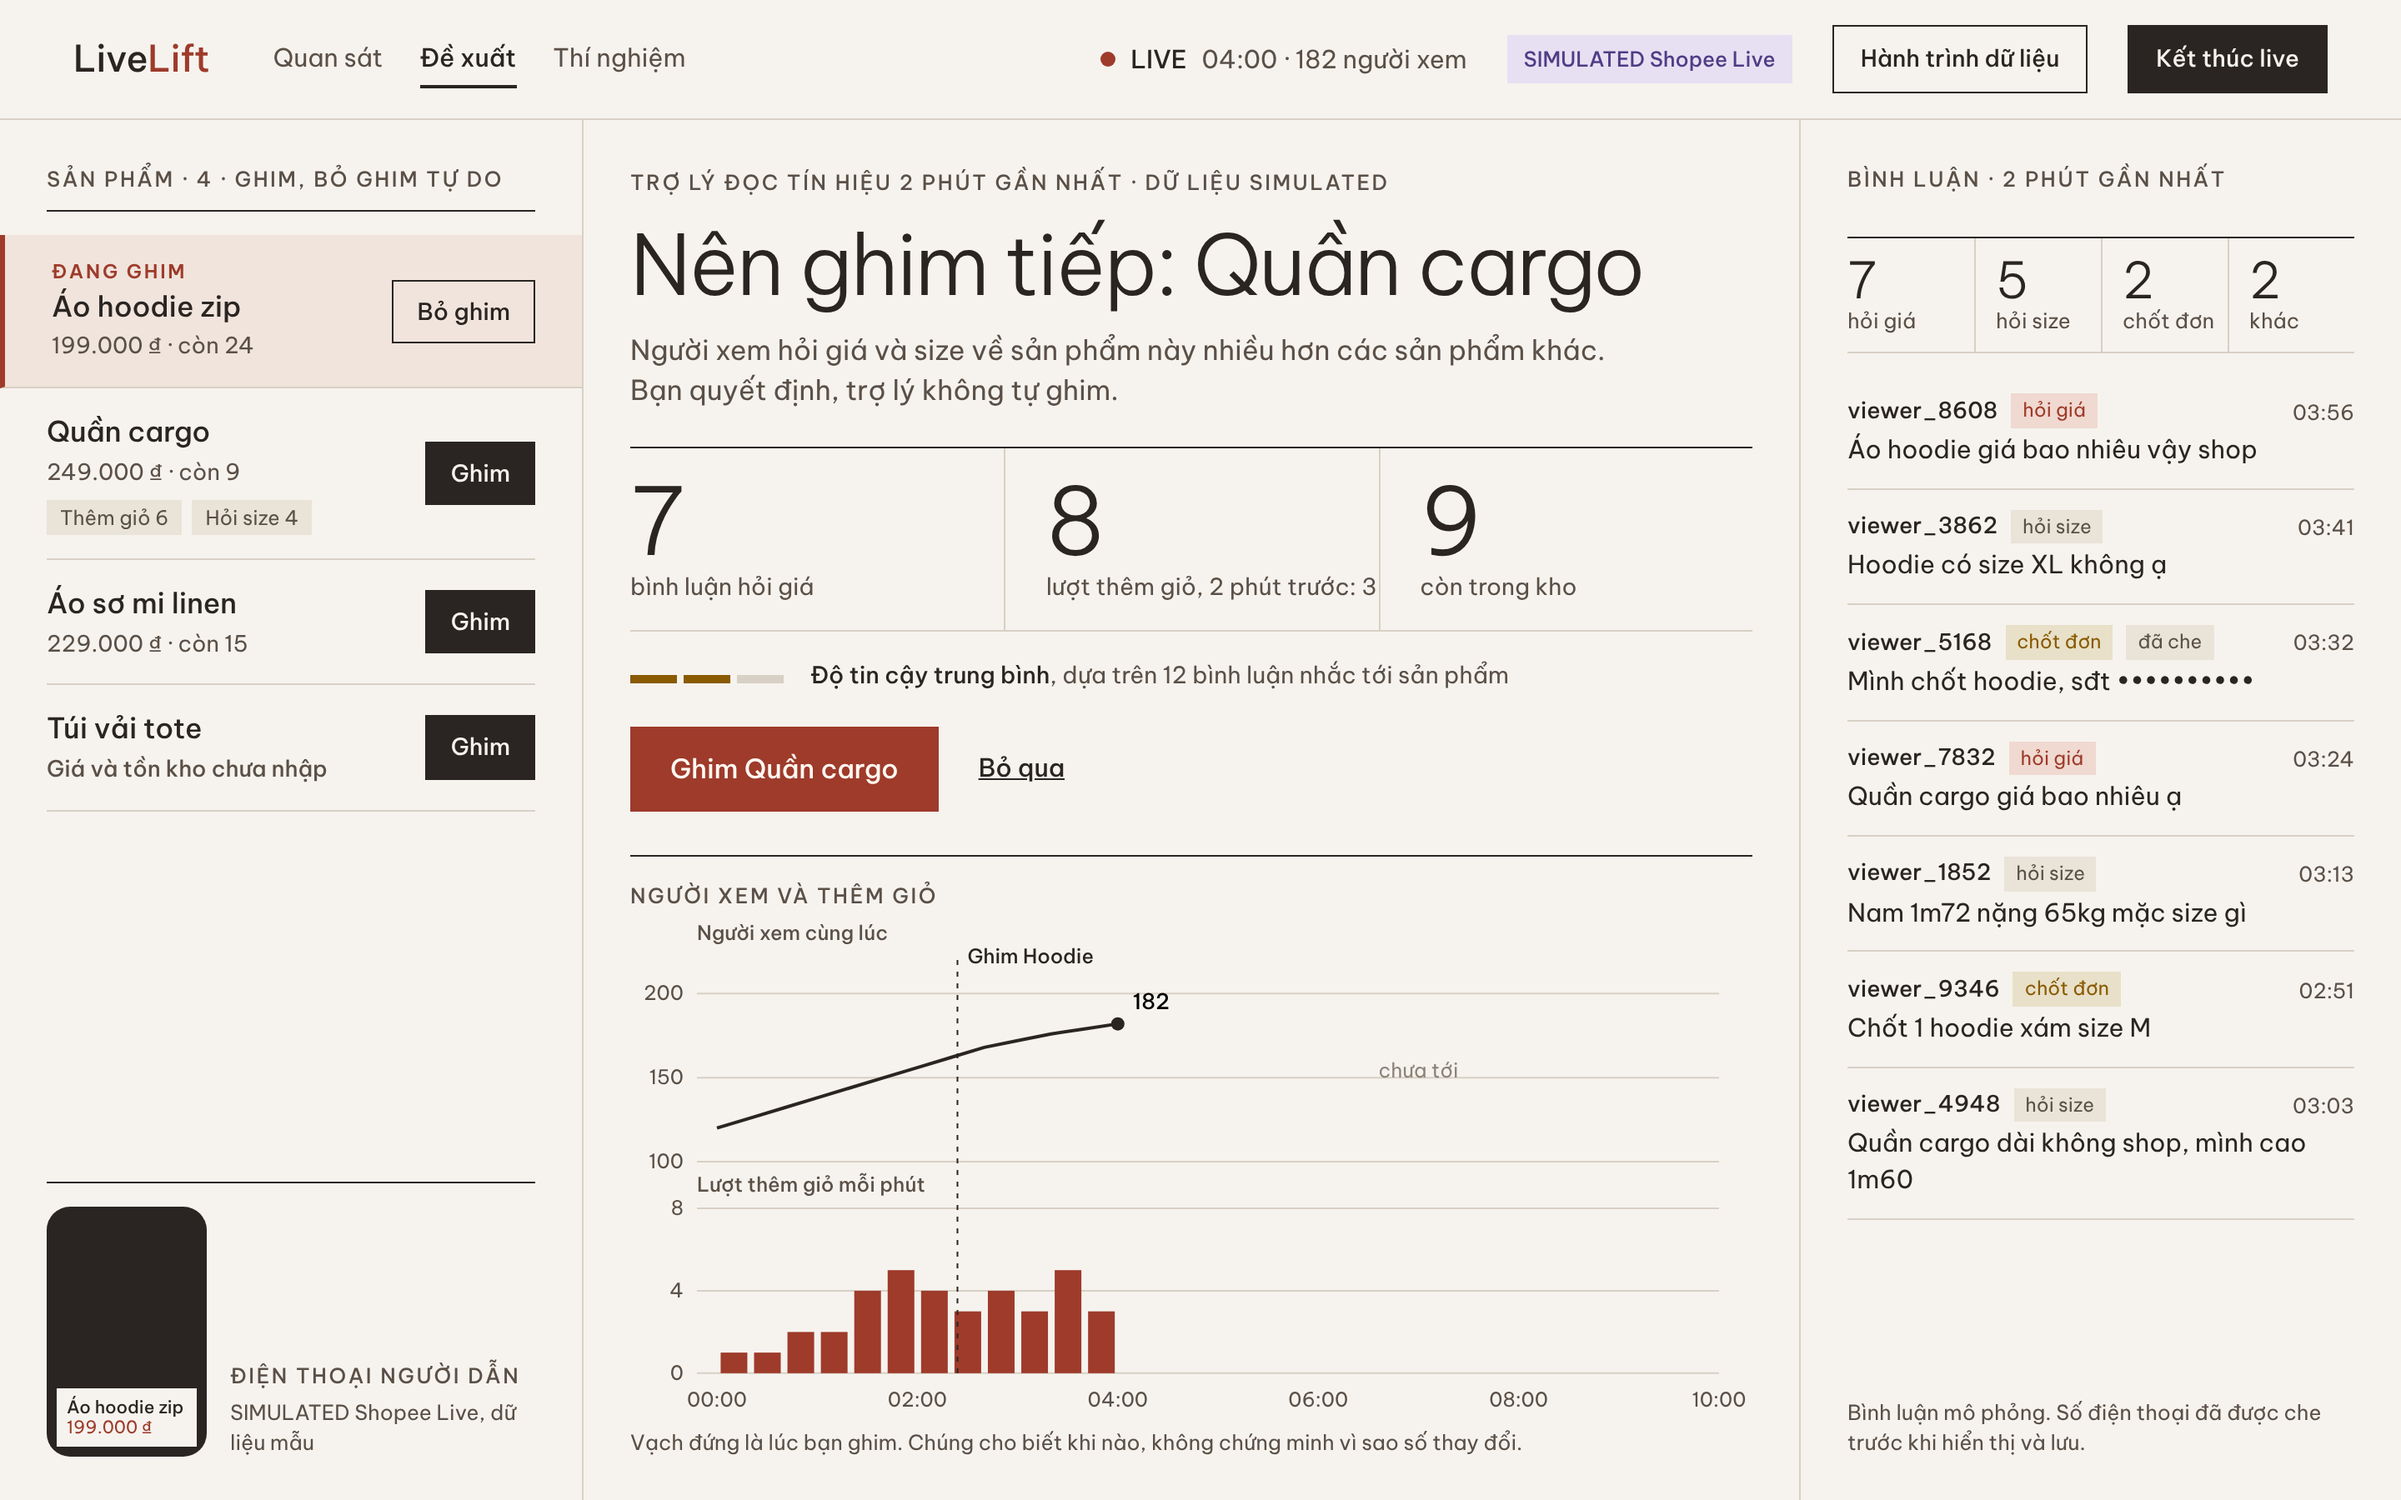
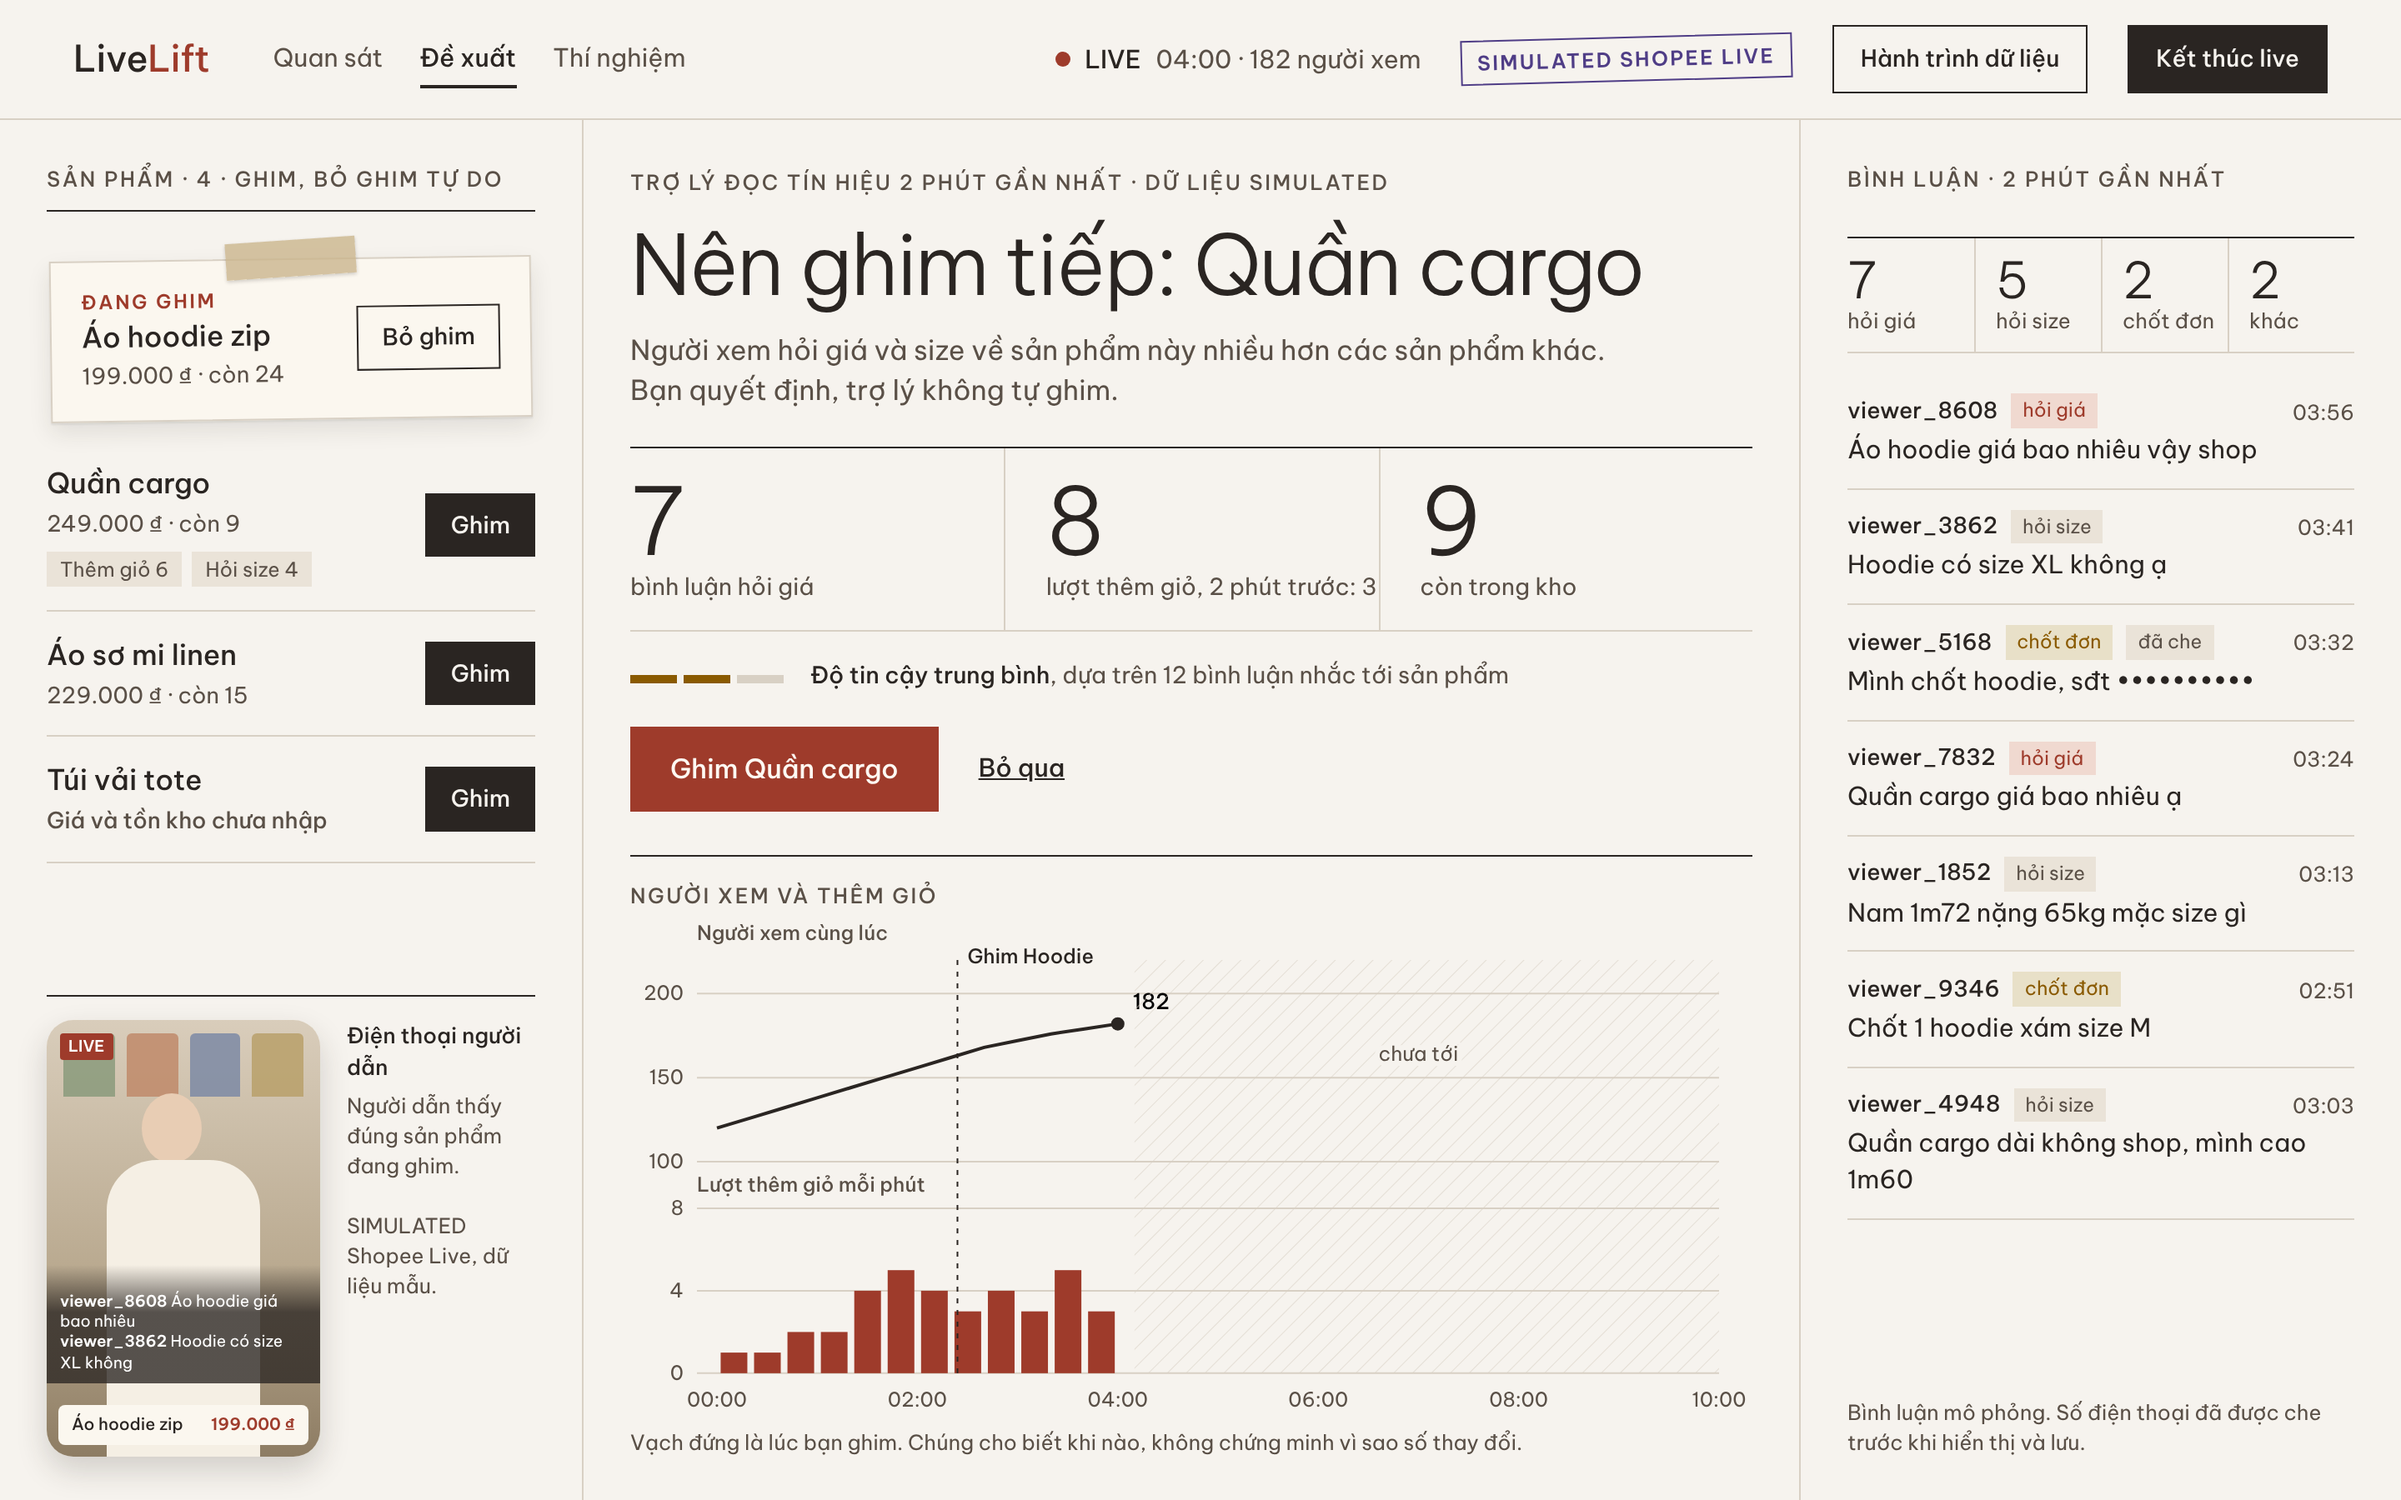
docs(competition): Calm Studio with tape pin, chosen direction
Claude-Session: https://claude.ai/code/session_01T5jHqYtofkC61PJ5z9MqDx

diff --git a/docs/competition/mockup-vibe/calm-desk.html b/docs/competition/mockup-vibe/calm-desk.html
@@ -12,7 +12,7 @@ header{height:72px;display:flex;align-items:center;gap:24px;padding:0 44px;borde
 .logo{font-size:22px;font-weight:500;letter-spacing:-.01em}.logo b{font-weight:500;color:var(--rust)}
 .modes{display:flex;gap:22px;margin-left:14px}.modes span{color:var(--soft);padding:6px 0;border-bottom:2px solid transparent}.modes span.on{color:var(--ink);border-color:var(--ink);font-weight:500}
 .sp{flex:1}.live{display:flex;gap:9px;align-items:center;font-weight:500}.live i{width:9px;height:9px;border-radius:50%;background:var(--rust)}.live span{color:var(--soft);font-weight:400}
-.stamp{font-size:12.5px;font-weight:500;color:var(--sim);background:var(--simbg);padding:5px 10px}
+.stamp{font-size:12px;font-weight:600;letter-spacing:.1em;text-transform:uppercase;color:var(--sim);border:1.5px solid var(--sim);padding:4px 9px;transform:rotate(-1.5deg)}
 .ctl{border:1px solid var(--ink);padding:9px 16px;font-weight:500;font-size:14px}.ctl.solid{background:var(--ink);color:var(--bg)}
 main{display:grid;grid-template-columns:350px 1fr 360px;gap:0;height:calc(900px - 72px)}
 .col{padding:26px 28px;display:flex;flex-direction:column;gap:26px;min-height:0;border-right:1px solid var(--rule)}.col:last-child{border-right:0}
@@ -20,7 +20,9 @@ main{display:grid;grid-template-columns:350px 1fr 360px;gap:0;height:calc(900px 
 .sect{border-top:1px solid var(--ink);padding-top:14px}
 .prod{display:flex;gap:12px;align-items:center;padding:14px 0;border-bottom:1px solid var(--rule)}
 .prod b{font-weight:500;font-size:17px;display:block}.prod small{color:var(--soft);font-size:13.5px}
-.prod.on{background:#F0E4DC;margin:0 -28px;padding:14px 28px;border-left:3px solid var(--rust)}
+.prod.on{position:relative;background:#FBF7EF;margin:14px 2px 12px;padding:16px 18px;border:1px solid var(--rule);box-shadow:0 1px 1px rgba(42,37,34,.08),0 6px 14px rgba(42,37,34,.10);transform:rotate(-.8deg)}
+.prod.on::before{content:"";position:absolute;top:-12px;left:50%;width:78px;height:22px;transform:translateX(-50%) rotate(-3deg);background:rgba(201,180,138,.78);box-shadow:0 1px 2px rgba(42,37,34,.2)}
+.prod.on .tag{color:var(--rust)}
 .tag{font-size:11.5px;letter-spacing:.12em;color:var(--rust);font-weight:600;display:block}
 .chips{display:flex;gap:6px;margin-top:6px}.chip{font-size:12px;background:var(--chip);color:var(--soft);padding:2px 8px}
 .btn{border:1px solid var(--ink);padding:8px 14px;font-weight:500;font-size:14px;white-space:nowrap}.btn.fill{background:var(--ink);color:var(--bg)}
@@ -38,12 +40,18 @@ main{display:grid;grid-template-columns:350px 1fr 360px;gap:0;height:calc(900px 
 .cm{padding:12px 0;border-bottom:1px solid var(--rule)}.who{display:flex;gap:8px;align-items:center;font-size:12.5px;color:var(--soft)}.who b{color:var(--ink);font-weight:500;font-size:13.5px}
 .t{font-size:11.5px;background:var(--chip);color:var(--soft);padding:2px 7px}.t.p{background:#F0D9D0;color:var(--rust)}.t.m{background:#E8E0C8;color:var(--amber)}
 .cm p{margin-top:2px;font-size:15px}
-.phone{display:flex;gap:14px;align-items:flex-end;border-top:1px solid var(--ink);padding-top:14px}
-.screen{width:96px;height:150px;background:#2A2522;border-radius:14px;position:relative;flex:none}
-.screen .card{position:absolute;left:6px;right:6px;bottom:6px;background:var(--bg);padding:5px 6px;font-size:10.5px;line-height:1.2}
+.phone{border-top:1px solid var(--ink);padding-top:14px;display:flex;gap:16px;align-items:flex-start;margin-top:auto}
+.screen{width:164px;height:262px;border-radius:16px;position:relative;flex:none;overflow:hidden;background:linear-gradient(180deg,#d9cdbb 0%,#b9a98f 58%,#8d7c63 100%);box-shadow:0 8px 18px rgba(42,37,34,.18)}
+.screen .rack{position:absolute;left:0;right:0;top:0;height:46px;display:flex;gap:7px;padding:8px 10px 0}.screen .rack i{flex:1;border-radius:3px 3px 0 0;opacity:.85}
+.screen .head{position:absolute;left:57px;top:44px;width:36px;height:42px;border-radius:50%;background:#e8cdb4}
+.screen .body{position:absolute;left:36px;right:36px;top:84px;bottom:0;border-radius:30px 30px 0 0;background:#f5efe4}
+.screen .live{position:absolute;top:8px;left:8px;font-size:9.5px;background:var(--rust);color:#fff;padding:1px 5px;border-radius:2px;font-weight:600;gap:0}
+.screen .chat{position:absolute;left:0;right:0;bottom:44px;padding:16px 8px 6px;font-size:9.5px;line-height:1.3;color:#fff;background:linear-gradient(180deg,rgba(42,37,34,0),rgba(42,37,34,.78) 40%)}
+.screen .pc{position:absolute;left:7px;right:7px;bottom:7px;background:#FBF7EF;border-radius:4px;padding:6px 8px;font-size:10px;line-height:1.2;display:flex;justify-content:space-between;align-items:center;gap:4px;white-space:nowrap}
+.pcap{font-size:12.5px;color:var(--soft)}.pcap b{display:block;font-weight:500;color:var(--ink);margin-bottom:4px;font-size:13px}
 </style></head><body>
 <header><div class="logo">Live<b>Lift</b></div><div class="modes"><span>Quan sát</span><span class="on">Đề xuất</span><span>Thí nghiệm</span></div><div class="sp"></div>
-<div class="live"><i></i>LIVE <span class="num">04:00 · 182 người xem</span></div><span class="stamp">SIMULATED Shopee Live</span><span class="ctl">Hành trình dữ liệu</span><span class="ctl solid">Kết thúc live</span></header>
+<div class="live"><i></i>LIVE <span class="num">04:00 · 182 người xem</span></div><span class="stamp">Simulated Shopee Live</span><span class="ctl">Hành trình dữ liệu</span><span class="ctl solid">Kết thúc live</span></header>
 <main>
 <div class="col"><div><div class="label" style="margin-bottom:10px">Sản phẩm · 4 · ghim, bỏ ghim tự do</div>
  <div class="sect"></div>
@@ -51,7 +59,7 @@ main{display:grid;grid-template-columns:350px 1fr 360px;gap:0;height:calc(900px 
  <div class="prod"><div style="flex:1"><b>Quần cargo</b><small class="num">249.000 ₫ · còn 9</small><div class="chips"><span class="chip">Thêm giỏ 6</span><span class="chip">Hỏi size 4</span></div></div><span class="btn fill">Ghim</span></div>
  <div class="prod"><div style="flex:1"><b>Áo sơ mi linen</b><small class="num">229.000 ₫ · còn 15</small></div><span class="btn fill">Ghim</span></div>
  <div class="prod"><div style="flex:1"><b>Túi vải tote</b><small class="miss">Giá và tồn kho chưa nhập</small></div><span class="btn fill">Ghim</span></div></div>
- <div class="phone" style="margin-top:auto"><div class="screen"><div class="card"><b style="font-weight:500">Áo hoodie zip</b><br><span style="color:#9E3B2B">199.000 ₫</span></div></div><div style="font-size:12.5px;color:var(--soft)"><div class="label" style="margin-bottom:4px">Điện thoại người dẫn</div>SIMULATED Shopee Live, dữ liệu mẫu</div></div></div>
+ <div class="phone"><div class="screen"><div class="rack"><i style="background:#8a9a7b"></i><i style="background:#c08a6a"></i><i style="background:#7d8aa5"></i><i style="background:#b8a06a"></i></div><div class="head"></div><div class="body"></div><span class="live">LIVE</span><div class="chat"><b>viewer_8608</b> Áo hoodie giá bao nhiêu<br><b>viewer_3862</b> Hoodie có size XL không</div><div class="pc"><b style="font-weight:500">Áo hoodie zip</b><span style="color:#9E3B2B;font-weight:600">199.000 ₫</span></div></div><div class="pcap"><b>Điện thoại người dẫn</b>Người dẫn thấy đúng sản phẩm đang ghim.<br><br>SIMULATED Shopee Live, dữ liệu mẫu.</div></div></div>
 <div class="col" style="flex:1"><div class="slip"><span class="label">Trợ lý đọc tín hiệu 2 phút gần nhất · dữ liệu SIMULATED</span>
  <h1>Nên ghim tiếp: Quần cargo</h1><p class="lead">Người xem hỏi giá và size về sản phẩm này nhiều hơn các sản phẩm khác. Bạn quyết định, trợ lý không tự ghim.</p>
  <div class="why"><div><b class="num">7</b><span>bình luận hỏi giá</span></div><div><b class="num">8</b><span>lượt thêm giỏ, 2 phút trước: 3</span></div><div><b class="num">9</b><span>còn trong kho</span></div></div>
@@ -81,9 +89,9 @@ window.addEventListener('load',()=>{
  s+=`<path d="M${v.map((d,i)=>x(i/3)+','+y1(d)).join(' L')}" fill="none" stroke="#2A2522" stroke-width="2"/>`;
  [0,4,8].forEach(d=>{s+=`<line x1="${P.l}" x2="${W-P.r}" y1="${y2(d)}" y2="${y2(d)}" stroke="#D8D0C4"/><text x="${P.l-8}" y="${y2(d)+4}" font-size="12" fill="#5A5047" text-anchor="end">${d}</text>`});
  a.forEach((d,i)=>{s+=`<rect x="${x(i/3+.17)-8}" y="${y2(d)}" width="16" height="${b2-y2(d)}" fill="#9E3B2B"/>`});
- const xp=x(2.4);s+=`<line x1="${xp}" x2="${xp}" y1="${P.t}" y2="${b2}" stroke="#2A2522" stroke-dasharray="3 4"/><text x="${xp+6}" y="${P.t+2}" font-size="12" font-weight="500" fill="#2A2522">Ghim Hoodie</text>`;
+ const xp=x(2.4);s+=`<line x1="${xp}" x2="${xp}" y1="${P.t}" y2="${b2}" stroke="#2A2522" stroke-dasharray="3 4"/><text x="${xp+6}" y="${P.t+2}" font-size="12" font-weight="500" fill="#2A2522" style="paint-order:stroke;stroke:#F6F3EE;stroke-width:5px">Ghim Hoodie</text>`;
  s+=`<circle cx="${x(4)}" cy="${y1(182)}" r="4" fill="#2A2522"/><text x="${x(4)+9}" y="${y1(182)-9}" font-size="13" font-weight="500">182</text>`;
- s+=`<text x="${x(7)}" y="${y1(150)}" font-size="12" fill="#8c8379" text-anchor="middle">chưa tới</text>`;
+ s+=`<defs><pattern id="h" width="8" height="8" patternUnits="userSpaceOnUse" patternTransform="rotate(45)"><line x1="0" y1="0" x2="0" y2="8" stroke="#D8D0C4" stroke-width="1"/></pattern></defs><rect x="${x(4)+10}" y="${P.t}" width="${x(10)-x(4)-10}" height="${b2-P.t}" fill="url(#h)" opacity=".6"/><text x="${x(7)}" y="${P.t+h1/2}" font-size="12" fill="#5A5047" text-anchor="middle" style="paint-order:stroke;stroke:#F6F3EE;stroke-width:6px">chưa tới</text>`;
  [0,2,4,6,8,10].forEach(m=>{s+=`<text x="${x(m)}" y="${H-6}" font-size="12" fill="#5A5047" text-anchor="middle">${String(m).padStart(2,'0')}:00</text>`});
  svg.innerHTML=s;});
 </script></body></html>

diff --git a/docs/competition/mockup-vibe/STYLE-CALM-TAPE.md b/docs/competition/mockup-vibe/STYLE-CALM-TAPE.md
@@ -1,0 +1,15 @@
+# Hướng chọn: Calm Studio + băng dính ghim (09/10/2026)
+
+Nhóm chọn Calm Studio (nền kem, chữ mực nâu, đỏ gạch, góc vuông, đường kẻ mảnh, số lớn nét mảnh), thêm một ý của hướng Atelier: sản phẩm **đang ghim** là một tấm thẻ giấy nghiêng nhẹ có băng dính kraft. Bản thử: `calm-desk.png` (nguồn `calm-desk.html`).
+
+## Token
+- Nền `#F6F3EE`, mực `#2A2522`, chữ phụ `#5A5047`, đỏ gạch `#9E3B2B`, đường kẻ `#D8D0C4`, chip `#EAE3D8`, kraft `#C9B48A`, SIMULATED tím `#4F3D86`, hổ phách `#8A5A00`.
+- Phông Be Vietnam Pro (có tập vietnamese), tự lưu trong gói. Tiêu đề và số lớn dùng nét 300; chữ thường 400; nhấn 500.
+- Góc vuông cho nút, chip, khung. Chỉ điện thoại người dẫn bo góc.
+- Đường kẻ đậm (mực) ngăn khu vực lớn, đường kẻ nhạt ngăn dòng.
+
+## Quy tắc
+- Chỉ nghiêng ba vật: thẻ đang ghim (kèm băng dính), con dấu SIMULATED (viền, nghiêng 1,5 độ), và (nếu cần) thẻ điện thoại. Mọi thứ khác thẳng hàng.
+- Một câu trả lời to nhất mỗi màn, một nút chính màu đỏ gạch.
+- Vùng chưa có dữ liệu vẽ bằng sọc chéo, không bao giờ là số 0.
+- Mọi dòng giữ nhãn SIMULATED; số liệu thiếu hiện "Chưa nhập".
